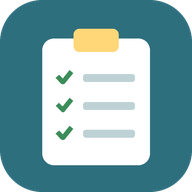
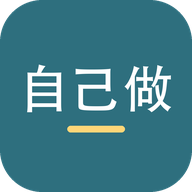
手機 App 改名「自己做」＋下方功能列：📋 工作清單｜🏢 費用申請（hq-apply.html 裝進 App，自動帶單位、藏頁首；頁面本身不改）＋新圖示
經營者 2026-11-26：「把這個 APP 改名字為自己做，同時加入儀表板-費用申請，我想逐步將各種功能加入這個 APP」。
網址照舊 work-app.html；之後新功能在 FEATURES 加一格。Playwright 模擬 iPhone 30 項全過。

diff --git a/static/work-app.html b/static/work-app.html
@@ -26,17 +26,20 @@ window.__ime=(function(){
 </script>
 <!-- 2026-11-26 IME-GUARD 與 dashboard-recipe.html 一字不差（檢查：python3 tools/check_ime_guard.py）。 -->
 <meta name="viewport" content="width=device-width, initial-scale=1.0, viewport-fit=cover">
-<title>工作清單 | 自己做烘焙聚樂部</title>
+<title>自己做 | 自己做烘焙聚樂部</title>
 <meta name="theme-color" content="#2E6F7E">
 <link rel="manifest" href="work-app.manifest.json">
 <link rel="apple-touch-icon" href="work-app/apple-touch-icon.png">
 <link rel="icon" type="image/png" sizes="192x192" href="work-app/icon-192.png">
 <meta name="apple-mobile-web-app-capable" content="yes">
 <meta name="mobile-web-app-capable" content="yes">
-<meta name="apple-mobile-web-app-title" content="工作清單">
+<meta name="apple-mobile-web-app-title" content="自己做">
 <meta name="apple-mobile-web-app-status-bar-style" content="default">
 <script src="https://cdnjs.cloudflare.com/ajax/libs/dompurify/3.1.6/purify.min.js"></script>
 <!--
+  2026-11-26 晚 改名「自己做」App、加功能列（經營者：「把這個 APP 改名字為自己做，同時加入儀表板-費用申請，我想逐步將各種功能加入這個 APP」）：
+    下方功能列 FEATURES（📋 工作清單＝本頁原生；🏢 費用申請＝同站 hq-apply.html 裝進 iframe，頁面本身不改：
+    App 自動帶入單位 hqapply_unit、藏掉它自己的頁首與「回首頁」）。之後新功能＝在 FEATURES 加一格（src＝同站頁面）。網址仍是 work-app.html（已安裝的人不受影響）。
   2026-11-26 手機版工作清單 App（經營者：「104 的工作清單限制太多，改用工作清單儀表板」「店長和體驗中心的人員都可以發送工作清單」）
   - 可加到手機主畫面（work-app.manifest.json＋work-app-sw.js），iPhone／Android 都可。
   - 登入＝決策中心同一組密碼：幾號店＋店密碼（store_N），或體驗中心（task_hq）；名字自己填，手機記住。
@@ -49,7 +52,7 @@ window.__ime=(function(){
 @media (prefers-color-scheme: dark){:root:not([data-theme="light"]){--main:#5EA7B8;--main-dark:#8CC5D2;--tint:#16343B;--bg:#0F1718;--card:#182224;--text:#E4ECEB;--muted:#9AAAA8;--border:#2A3B3E;--red:#F07070;--orange:#F0A860;--green:#6CC08A;--gray:#7D8A88;--shadow:none}}
 *{box-sizing:border-box;-webkit-tap-highlight-color:transparent}
 html,body{margin:0;background:var(--bg);color:var(--text);font:16px/1.5 -apple-system,BlinkMacSystemFont,"PingFang TC","Noto Sans TC","Microsoft JhengHei",sans-serif}
-body{padding-bottom:calc(88px + env(safe-area-inset-bottom))}
+body{padding-bottom:calc(150px + env(safe-area-inset-bottom))}
 button,input,select,textarea{font:inherit;color:inherit}
 .wrap{max-width:680px;margin:0 auto;padding:0 16px}
 header.top{position:sticky;top:0;z-index:20;background:var(--main);color:#fff;padding:calc(10px + env(safe-area-inset-top)) 0 0}
@@ -76,7 +79,7 @@ header.top .me{font-size:13px;opacity:.92;text-align:right;line-height:1.25}
 .late{color:var(--red);font-weight:600}
 .rep{font-weight:600}.rep.all{color:var(--green)}.rep.part{color:var(--orange)}
 .empty{text-align:center;color:var(--muted);padding:40px 10px}
-.fab{position:fixed;right:max(16px,calc(50% - 324px));bottom:calc(20px + env(safe-area-inset-bottom));z-index:30;background:var(--main);color:#fff;border:0;border-radius:999px;padding:14px 20px;font-size:16px;font-weight:600;box-shadow:0 4px 14px rgba(0,0,0,.25)}
+.fab{position:fixed;right:max(16px,calc(50% - 324px));bottom:calc(76px + env(safe-area-inset-bottom));z-index:30;background:var(--main);color:#fff;border:0;border-radius:999px;padding:14px 20px;font-size:16px;font-weight:600;box-shadow:0 4px 14px rgba(0,0,0,.25)}
 .sheet{position:fixed;inset:0;z-index:50;background:var(--bg);overflow-y:auto;-webkit-overflow-scrolling:touch;display:none}
 .sheet.on{display:block}
 .sheet header{position:sticky;top:0;z-index:2;background:var(--card);border-bottom:1px solid var(--border);padding:calc(8px + env(safe-area-inset-top)) 0 8px}
@@ -129,14 +132,22 @@ textarea{min-height:96px;resize:vertical}
 .inst .x{margin-left:auto;background:transparent;border:0;color:inherit;font-size:18px;line-height:1;padding:0 4px}
 .toast{position:fixed;left:50%;transform:translateX(-50%);bottom:calc(90px + env(safe-area-inset-bottom));background:rgba(20,30,30,.92);color:#fff;padding:10px 16px;border-radius:12px;font-size:14px;z-index:90;display:none;max-width:90vw}
 .hide{display:none!important}
+/* 下方功能列（之後新功能加一格） */
+.dock{position:fixed;left:0;right:0;bottom:0;z-index:40;background:var(--card);border-top:1px solid var(--border);display:flex;justify-content:center;padding:4px 0 env(safe-area-inset-bottom)}
+.dock button{flex:1;max-width:160px;background:transparent;border:0;color:var(--muted);padding:6px 2px 4px;font-size:12px;line-height:1.2;display:flex;flex-direction:column;align-items:center;gap:2px}
+.dock button .i{font-size:22px;line-height:1}
+.dock button.on{color:var(--main);font-weight:700}
+.frame{position:fixed;left:0;right:0;z-index:5;background:var(--bg)}
+.frame iframe{width:100%;height:100%;border:0;display:block;background:var(--bg)}
+.frame .ld{position:absolute;inset:0;display:flex;align-items:center;justify-content:center;color:var(--muted);font-size:14px}
 </style>
 </head>
 <body>
 
 <!-- 登入 -->
 <div id="vLogin" class="login hide">
-  <h1>📋 工作清單</h1>
-  <div class="msg">自己做烘焙聚樂部・店長與體驗中心用</div>
+  <h1>自己做</h1>
+  <div class="msg">自己做烘焙聚樂部・店長與體驗中心用（工作清單、費用申請）</div>
   <div class="fld"><span>你是哪裡的？</span><div class="storegrid" id="lgStores"></div></div>
   <div class="fld"><span id="lgPwLabel">店密碼（和決策中心同一組）</span><input type="password" id="lgPw" autocomplete="current-password" inputmode="text"></div>
   <div class="fld"><span>你的名字（留言、發工作會顯示）</span><input type="text" id="lgName" maxlength="20" autocomplete="name" placeholder="例：徐愷憶"></div>
@@ -148,7 +159,7 @@ textarea{min-height:96px;resize:vertical}
 <!-- 清單 -->
 <div id="vList" class="hide">
   <header class="top"><div class="wrap">
-    <div class="row"><h1>📋 工作清單</h1><div class="me" id="meBox"></div><button class="hbtn" id="btnRef" aria-label="重新整理">↻</button></div>
+    <div class="row"><h1 id="secTitle">📋 工作清單</h1><div class="me" id="meBox"></div><button class="hbtn" id="btnRef" aria-label="重新整理">↻</button></div>
     <div class="tabs" id="tabs">
       <button data-t="mine">交辦給我<span class="n" id="nMine"></span></button>
       <button data-t="sent">我發的<span class="n" id="nSent"></span></button>
@@ -162,6 +173,8 @@ textarea{min-height:96px;resize:vertical}
     <div id="list"></div>
   </div>
   <button class="fab" id="btnNew">＋ 發工作</button>
+  <div class="frame hide" id="secFrame"><div class="ld" id="frameLd">讀取中…</div></div>
+  <nav class="dock" id="dock"></nav>
 </div>
 
 <!-- 工作內容 -->
@@ -266,7 +279,7 @@ function showLogin(){ closeSheets(); $('vList').classList.add('hide'); $('vLogin
 function showList(){ $('vLogin').classList.add('hide'); $('vList').classList.remove('hide');
   $('meBox').innerHTML = '<div>'+esc(S.auth.name)+'</div><div>'+esc(S.auth.label)+' · <a href="#" id="lo" style="color:#FFD678">登出</a></div>';
   $('lo').onclick = function(e){ e.preventDefault(); logout(); };
-  markTab(); installBanner('instB');
+  markTab(); installBanner('instB'); renderDock(); setSection(S.sec || lsGet(K_SEC) || 'work');
 }
 
 /* ===== 讀資料 ===== */
@@ -362,6 +375,7 @@ $('list').addEventListener('click', function(e){ var b=e.target.closest('[data-w
 
 /* ===== 工作內容 ===== */
 function openWork(id, noPush){
+  if (S.sec && S.sec!=='work') setSection('work');
   var w = byId(id); if (!w) { toast('找不到這件工作（可能已完成超過 30 天或已刪除）'); return; }
   S.open = id; S.files = [];
   renderDetail(w);
@@ -557,8 +571,8 @@ function installBanner(id){
   var inApp = /Line\/|FBAN|FBAV|Instagram/i.test(ua);
   var t;
   if (inApp) t = '要裝到手機主畫面：請先點右上「⋯」→ 用'+(ios?' Safari ':'瀏覽器')+'開啟，再照提示加到主畫面。';
-  else if (ios) t = '裝到主畫面：點 Safari 下方的「分享」<b>⬆</b> →「加入主畫面」→「新增」。之後從桌面的「工作清單」圖示打開。';
-  else if (deferredPrompt) t = '可以把工作清單裝到手機主畫面，像 App 一樣打開。 <button class="btn" id="'+id+'Go" style="padding:6px 12px;font-size:14px;margin-top:6px">安裝</button>';
+  else if (ios) t = '裝到主畫面：點 Safari 下方的「分享」<b>⬆</b> →「加入主畫面」→「新增」。之後從桌面的「自己做」圖示打開。';
+  else if (deferredPrompt) t = '可以把「自己做」裝到手機主畫面，像 App 一樣打開。 <button class="btn" id="'+id+'Go" style="padding:6px 12px;font-size:14px;margin-top:6px">安裝</button>';
   else if (/Android/i.test(ua)) t = '裝到主畫面：點 Chrome 右上「⋮」→「加到主畫面」或「安裝應用程式」。';
   else return;
   el.innerHTML = '<div class="inst"><div>📲 '+t+'</div><button class="x" aria-label="不再顯示">×</button></div>';
@@ -567,12 +581,61 @@ function installBanner(id){
 }
 if ('serviceWorker' in navigator) { window.addEventListener('load', function(){ navigator.serviceWorker.register('work-app-sw.js', { scope:'./work-app' }).catch(function(){}); }); }
 
+/* ===== 功能列：之後新功能在 FEATURES 加一格 =====
+   work＝本頁原生；其他＝同站頁面裝進 iframe（同網域，App 可以幫它帶單位、藏「回首頁」）。 */
+var FEATURES = [
+  { k:'work', t:'工作清單', i:'📋' },
+  { k:'fee',  t:'費用申請', i:'🏢', src:'hq-apply.html', prep: prepFee, hide:'.mt-header' }
+];
+var K_SEC = 'wa_sec', frames = {};
+/* 費用申請記的單位（hqapply_unit）＝「3店 台北南京」這種名稱；沒選過就照 App 登入的店帶入（9、10 店費用申請沒有，就不帶） */
+function prepFee(){
+  if (!S.auth || lsGet('hqapply_unit')) return;
+  var u = S.auth.hq ? '體驗中心' : ({1:'1店 台中精明',2:'2店 台中草悟道',3:'3店 台北南京',4:'4店 台北士林',5:'5店 台南Focus',6:'6店 新竹文化',7:'7店 新北板橋',8:'8店 新北新店',11:'11店 台北信義',12:'12店 高雄SKM Park'})[S.auth.as];
+  if (u) lsSet('hqapply_unit', u);
+  if (S.auth.name && !lsGet('hqapply_who')) lsSet('hqapply_who', S.auth.name);
+}
+function renderDock(){
+  $('dock').innerHTML = FEATURES.map(function(f){ return '<button data-k="'+f.k+'"><span class="i">'+f.i+'</span>'+esc(f.t)+'</button>'; }).join('');
+}
+$('dock').addEventListener('click', function(e){ var b=e.target.closest('[data-k]'); if (b) setSection(b.getAttribute('data-k')); });
+function fitFrame(){
+  var el=$('secFrame'); if (el.classList.contains('hide')) return;
+  el.style.top = document.querySelector('#vList header.top').offsetHeight+'px';
+  el.style.bottom = $('dock').offsetHeight+'px';
+}
+window.addEventListener('resize', fitFrame);
+function setSection(k){
+  var f = FEATURES.filter(function(x){ return x.k===k; })[0] || FEATURES[0]; k = f.k; S.sec = k; lsSet(K_SEC, k);
+  [].forEach.call($('dock').querySelectorAll('button'), function(b){ b.classList.toggle('on', b.getAttribute('data-k')===k); });
+  var isWork = k==='work';
+  $('secTitle').textContent = f.i+' '+f.t;
+  ['tabs','btnNew','btnRef'].forEach(function(id){ $(id).classList.toggle('hide', !isWork); });
+  document.querySelector('#vList > .wrap').classList.toggle('hide', !isWork);
+  $('secFrame').classList.toggle('hide', isWork);
+  if (!isWork) {
+    Object.keys(frames).forEach(function(x){ frames[x].style.display = x===k ? 'block' : 'none'; });
+    if (!frames[k]) {
+      if (f.prep) f.prep();
+      $('frameLd').style.display='flex';
+      var fr = document.createElement('iframe'); fr.src = f.src; fr.title = f.t; fr.setAttribute('allow','camera');
+      fr.addEventListener('load', function(){
+        $('frameLd').style.display='none';
+        try { if (f.hide) { var st = fr.contentDocument.createElement('style'); st.textContent = f.hide+'{display:none!important}'; fr.contentDocument.head.appendChild(st); } } catch(_){}
+      });
+      frames[k] = fr; $('secFrame').appendChild(fr);
+    } else $('frameLd').style.display='none';
+    fitFrame();
+  } else window.scrollTo(0,0);
+}
+
 /* ===== 啟動 ===== */
 (function(){
   try { fetch(API, { method:'POST', headers:{'Content-Type':'text/plain;charset=utf-8'}, body:JSON.stringify({ action:'ping' }), cache:'no-store' }).catch(function(){}); } catch(_){}
   if (!S.auth || !S.auth.pw) { showLogin(); return; }
   showList();
   var m = String(location.hash).match(/^#w=(.+)$/), deep = m ? decodeURIComponent(m[1]) : '';
+  setSection(deep ? 'work' : (/^#fee$/.test(location.hash) ? 'fee' : (lsGet(K_SEC) || 'work')));
   if (deep) history.replaceState(null,'',location.pathname+location.search);
   load(true).then(function(){ if (deep) { history.pushState(null,'',location.pathname+location.search); openWork(deep); } });
 })();

diff --git a/static/work-app-sw.js b/static/work-app-sw.js
@@ -1,6 +1,6 @@
 /* 2026-11-26 手機版工作清單 App 的 service worker（範圍只有 /static/work-app*，不影響其他儀表板）
    頁面與圖示：先連網、失敗才用快取（沒網路時還打得開，但資料要連網才更新）。API（script.google.com）不經過這裡。 */
-var CACHE = 'work-app-v2';
+var CACHE = 'work-app-v3';
 var FILES = ['work-app.html', 'work-app.manifest.json', 'work-app/icon-192.png', 'work-app/icon-512.png', 'work-app/apple-touch-icon.png'];
 self.addEventListener('install', function (e) {
   e.waitUntil(caches.open(CACHE).then(function (c) { return c.addAll(FILES); }).catch(function () {}).then(function () { return self.skipWaiting(); }));
